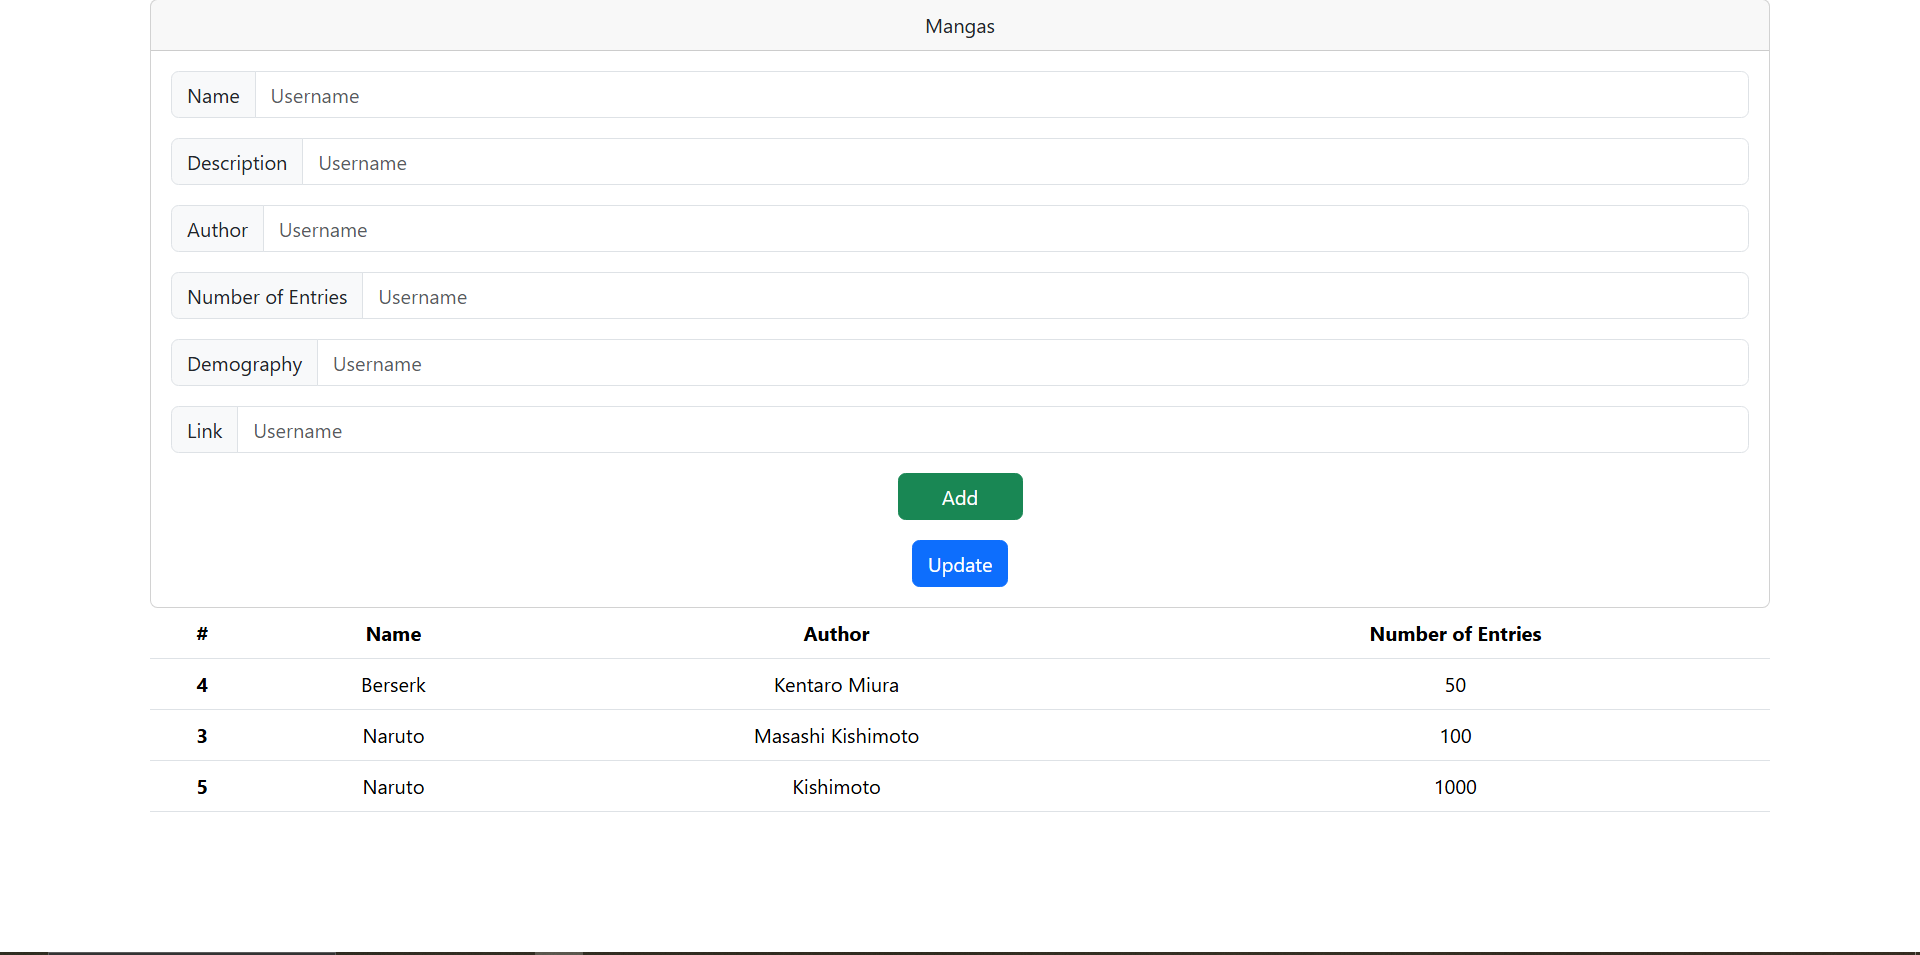
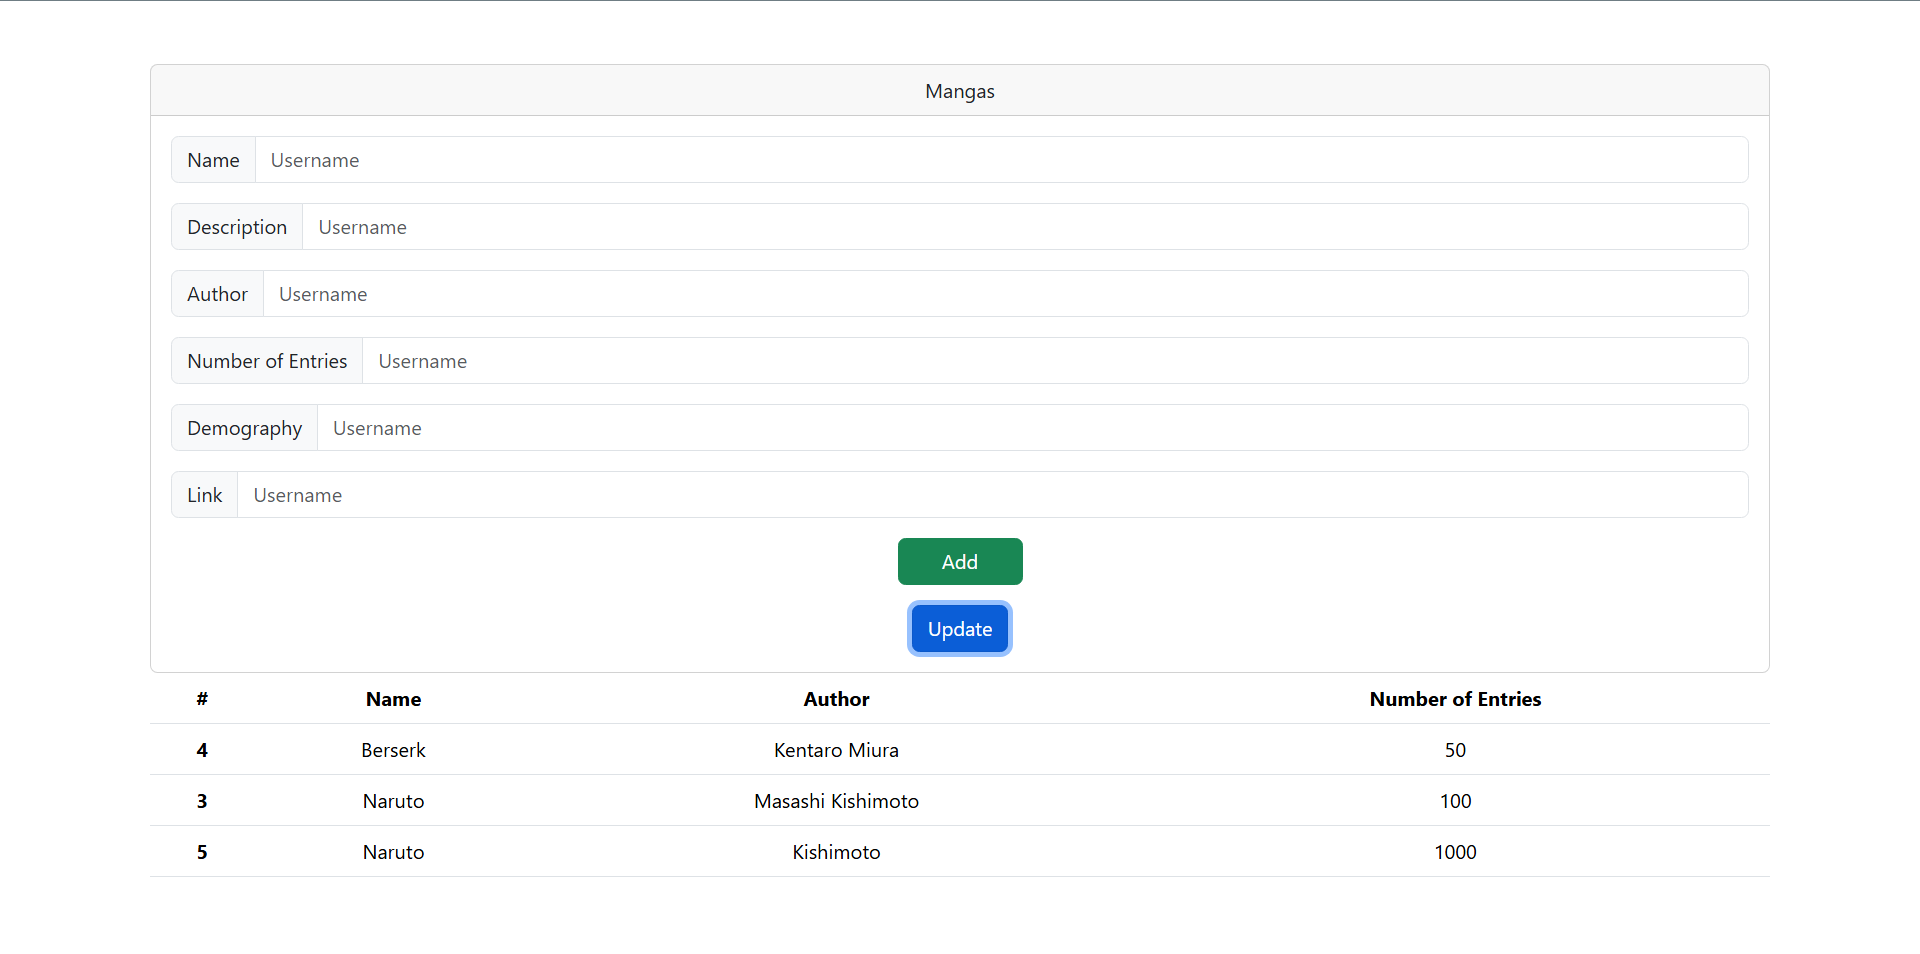
cover

diff --git a/client/src/index.css b/client/src/index.css
@@ -7,6 +7,10 @@ body {
   -moz-osx-font-smoothing: grayscale;
 }
 
+card{
+  margin: 20px;
+}
+
 code {
   font-family: source-code-pro, Menlo, Monaco, Consolas, 'Courier New',
     monospace;

diff --git a/client/src/App.css b/client/src/App.css
@@ -53,6 +53,10 @@ button{
   justify-content: center;
 }
 
+.card{
+  margin-top: 50px;
+}
+
 .data > label{margin: 5px;}
 .data > label > input{ margin:10px;}
 
